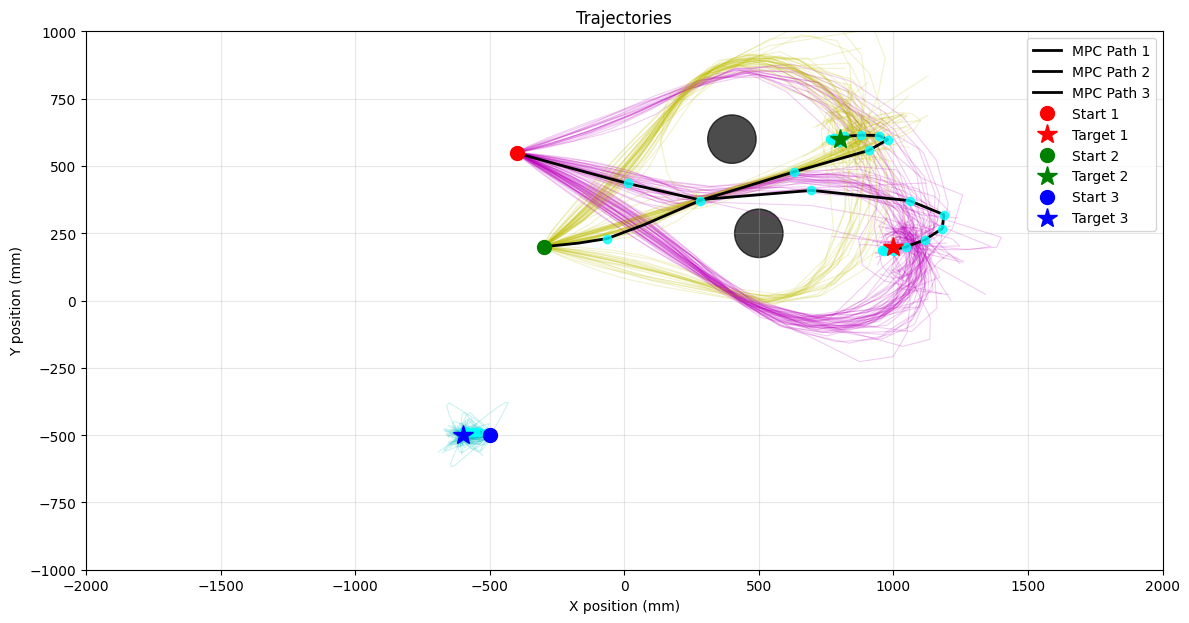
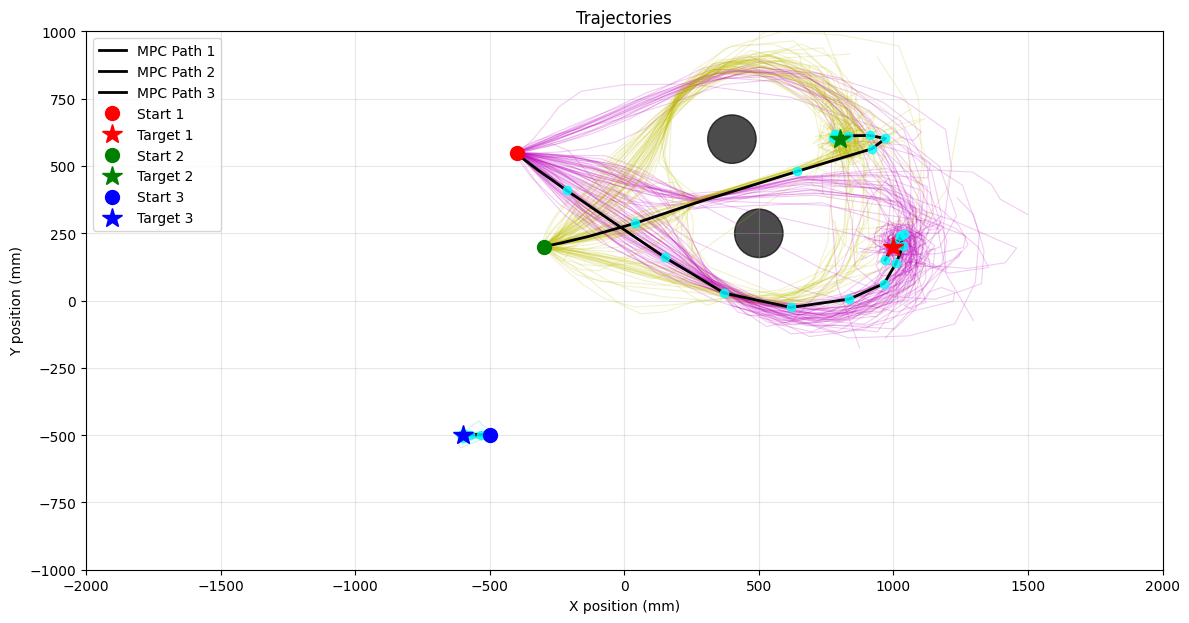
spent a bunch of time tuning parameters, was a waste of time

diff --git a/mpc_jax/mpc_jax/main.py b/mpc_jax/mpc_jax/main.py
@@ -58,10 +58,7 @@ def mpc_cost_function(
         b_cost = boundary_cost(robot.position, w.field_bounds)
         vc_cost = velocity_constraint_cost(robot.velocity, max_speed)
 
-        learning_factor_adjustment = (
-            jnp.sqrt(((robot.position - target.after(t).position) ** 2).sum() + 1e-6)
-        ) * 0.05
-        return (d_cost + c_cost + b_cost + vc_cost) * (1 + learning_factor_adjustment)
+        return d_cost + c_cost + b_cost + vc_cost
 
     def collective_position_cost_fn(traj_slice, idx):
         t, pos_x, pos_y, vel_x, vel_y = traj_slice[idx]
@@ -199,14 +196,11 @@ def solve_mpc_jax(
     # Optimize each candidate trajectory via (full-batch) gradient descent
     def optimize_control(u):
         # Initialize optimizer for this trajectory
-        schedule = optax.linear_schedule(
-            learning_rate, learning_rate / 2.0, max_iterations
-        )
         clip_schedule = optax.linear_schedule(
-            UPDATE_CLIP, UPDATE_CLIP / 5.0, max_iterations
+            UPDATE_CLIP, UPDATE_CLIP / 20.0, max_iterations
         )
         optimizer = optax.chain(
-            optax.sgd(schedule, momentum=0.5, nesterov=True),
+            optax.sgd(learning_rate, momentum=0.8, nesterov=True),
             scheduled_clip_by_global_norm(clip_schedule),
         )
         opt_state = optimizer.init(u)

diff --git a/mpc_jax/mpc_jax/common.py b/mpc_jax/mpc_jax/common.py
@@ -27,8 +27,8 @@ ROBOT_RADIUS = 90.0  # mm
 COLLISION_PENALTY_RADIUS = 200.0  # mm
 FIELD_BOUNDARY_MARGIN = 100.0  # mm
 MAX_ITERATIONS = 50
-LEARNING_RATE = 120
-UPDATE_CLIP = 100
+LEARNING_RATE = 800
+UPDATE_CLIP = 200
 N_CANDIDATE_TRAJECTORIES = 100
 
 # Robot dynamics parameters
